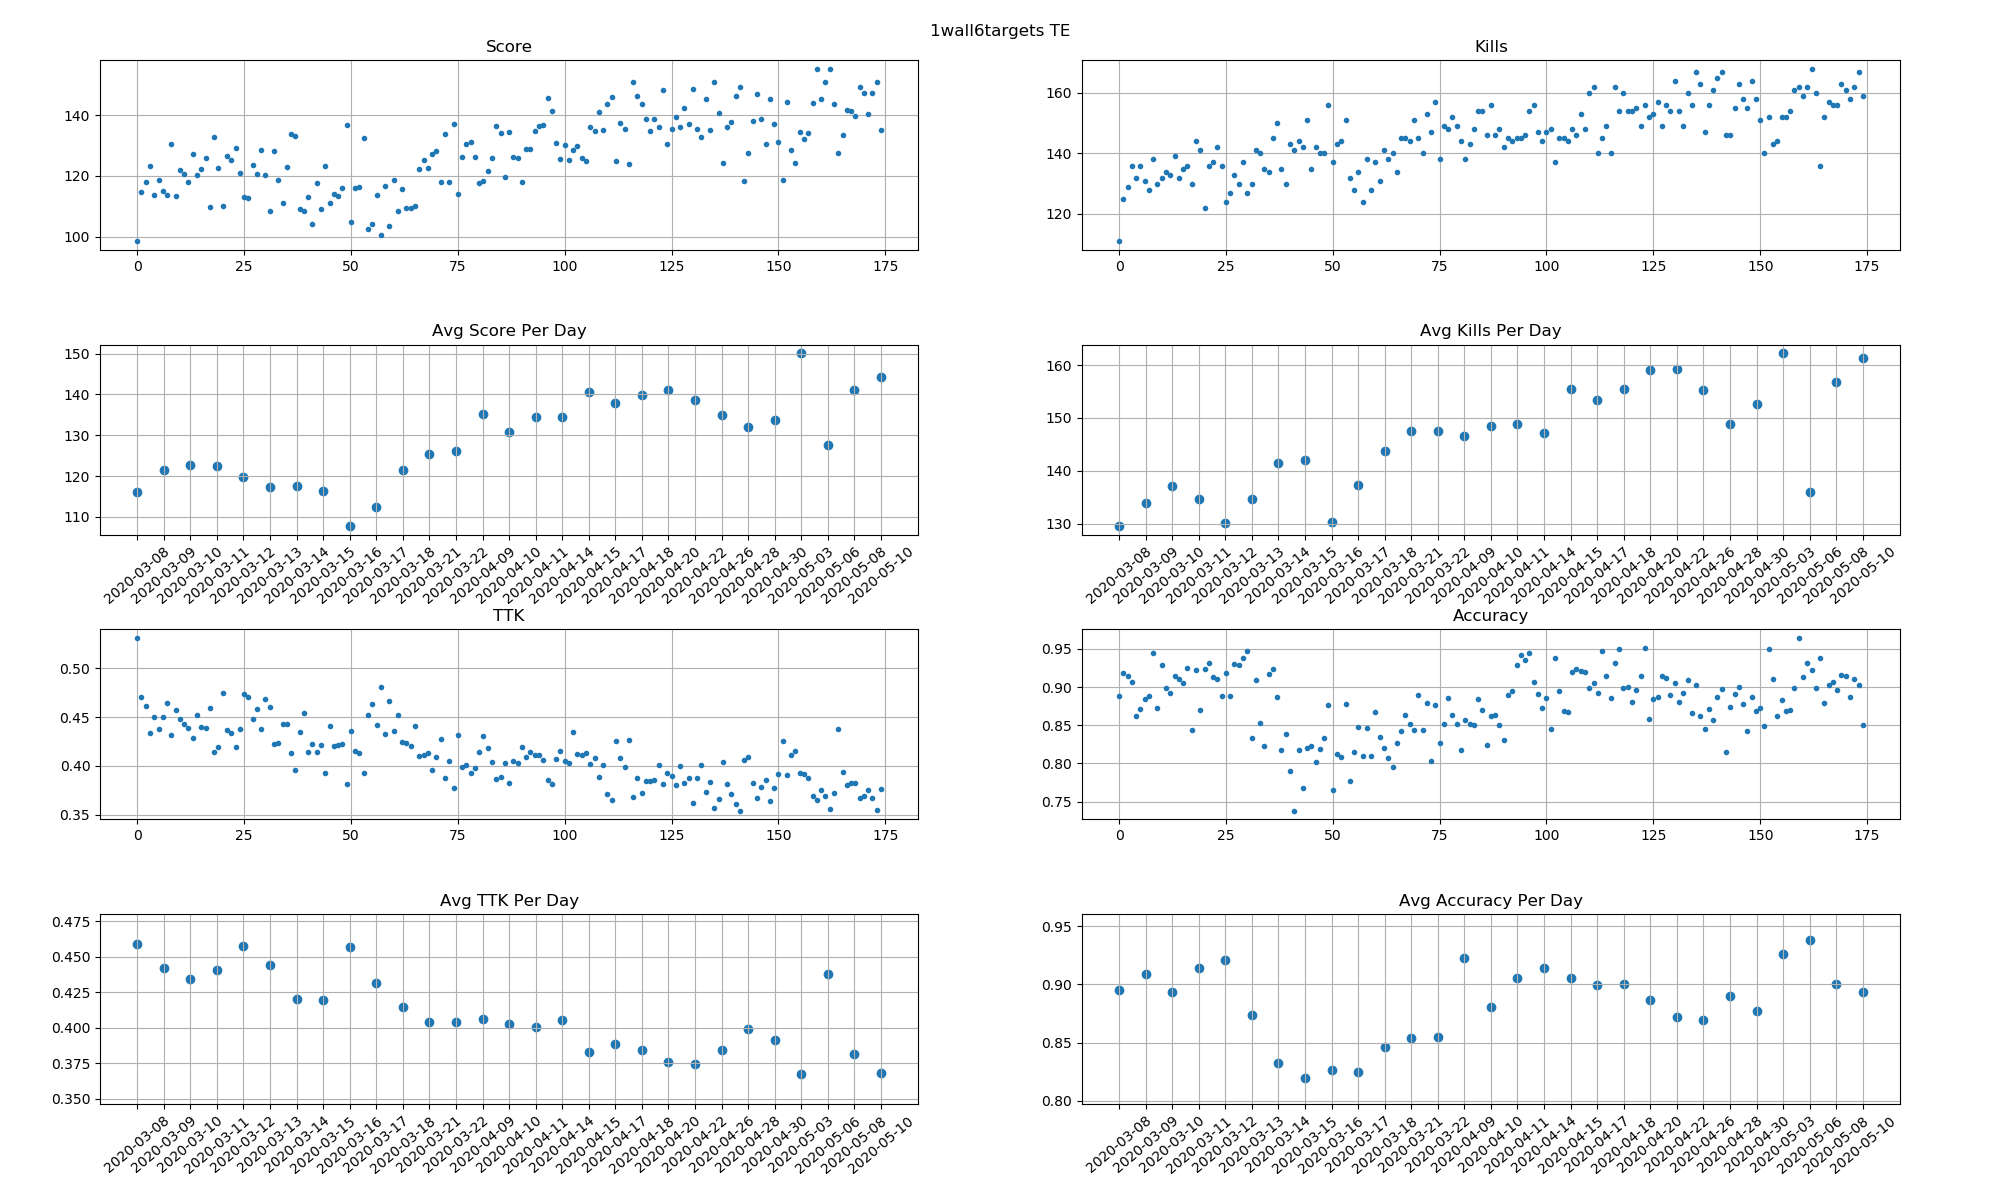
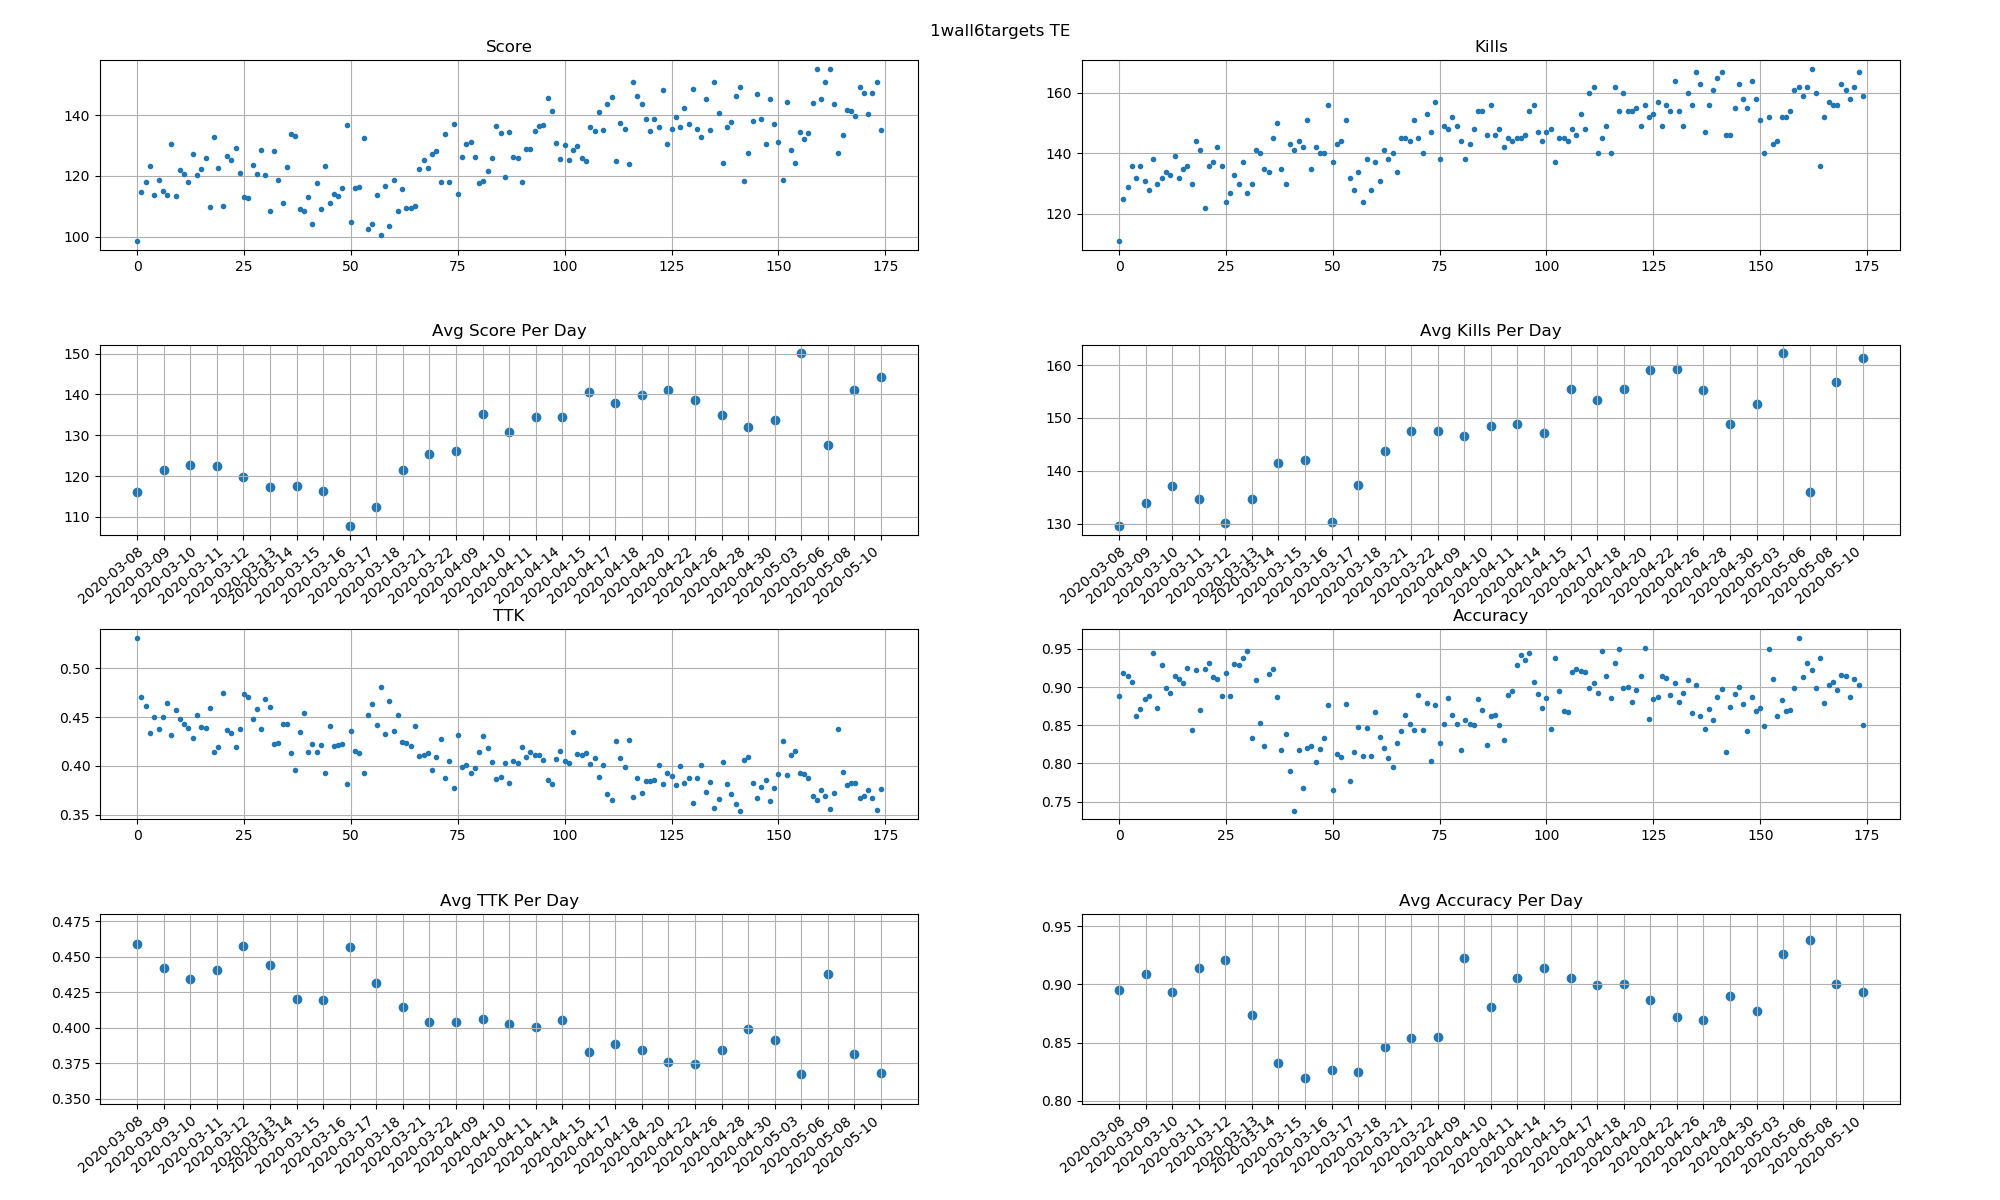
Fix date label alignment.

diff --git a/kovaakStats.py b/kovaakStats.py
@@ -168,6 +168,12 @@ def parse_stats(stats_dir, stat_files):
 #     p = numpy.poly1d(z)
 #     ax.plot(x,p(x), "r--")
 
+def _conf_axes(axes, title, rotate):
+    axes.set_title(title)
+    axes.grid(True)
+    if rotate:
+        plt.setp(axes.get_xticklabels(), rotation=40, ha="right", rotation_mode="anchor")
+
 def plot_tracking(challenge_name, fig_id, stats, img_dir):
     width, height = 1, 2
 
@@ -175,17 +181,14 @@ def plot_tracking(challenge_name, fig_id, stats, img_dir):
     fig.suptitle(challenge_name)
 
     ax = plt.subplot(height, width, 1)
-    ax.set_title("Score")
-    ax.grid(True)
+    _conf_axes(ax, "Score", False)
     x, y = zip(*enumerate(s.summary.score for s in stats))
     ax.plot(x, y, ".")
     # _trendline(ax, x, y)
 
     ax = plt.subplot(height, width, 2)
-    ax.set_title("Avg Score Per Day")
-    ax.grid(True)
+    _conf_axes(ax, "Avg Score Per Day", True)
     ax.scatter(*daily_stats(stats, lambda s: s.summary.score))
-    ax.tick_params(axis="x", rotation=45)
 
     # ax.set_title("Avg Score Per Day")
     # days, values = daily_stats2(stats, lambda s: s.summary.score)
@@ -201,49 +204,43 @@ def plot_tracking(challenge_name, fig_id, stats, img_dir):
 def plot_click_timing(challenge_name, fig_id, stats, img_dir):
     width, height = 2, 4
 
-    def _conf(ax, title, rotate):
-        ax.set_title(title)
-        ax.grid(True)
-        if rotate:
-            ax.tick_params(axis="x", rotation=40)
-
     fig = plt.figure(fig_id, figsize=(20, 12))
     fig.suptitle(challenge_name)
 
     ax = plt.subplot(height, width, 1)
-    _conf(ax, "Score", False)
+    _conf_axes(ax, "Score", False)
     x, y = zip(*enumerate(s.summary.score for s in stats))
     ax.plot(x, y, ".")
     # _trendline(ax, x, y)
 
     ax = plt.subplot(height, width, 3)
-    _conf(ax, "Avg Score Per Day", True)
+    _conf_axes(ax, "Avg Score Per Day", True)
     days, values = daily_stats(stats, lambda s: s.summary.score)
     ax.scatter(days, values)
     # _trendline(ax, range(len(days)), values)
 
     ax = plt.subplot(height, width, 2)
-    _conf(ax, "Kills", False)
+    _conf_axes(ax, "Kills", False)
     ax.plot([s.summary.kills for s in stats], ".")
 
     ax = plt.subplot(height, width, 4)
-    _conf(ax, "Avg Kills Per Day", True)
+    _conf_axes(ax, "Avg Kills Per Day", True)
     ax.scatter(*daily_stats(stats, lambda s: s.summary.kills))
 
     ax = plt.subplot(height, width, 6)
-    _conf(ax, "Accuracy", False)
+    _conf_axes(ax, "Accuracy", False)
     ax.plot([s.accuracy for s in stats], ".")
 
     ax = plt.subplot(height, width, 8)
-    _conf(ax, "Avg Accuracy Per Day", True)
+    _conf_axes(ax, "Avg Accuracy Per Day", True)
     ax.scatter(*daily_stats(stats, lambda s: s.accuracy))
 
     ax = plt.subplot(height, width, 5)
-    _conf(ax, "TTK", False)
+    _conf_axes(ax, "TTK", False)
     ax.plot([s.ttk for s in stats], ".")
 
     ax = plt.subplot(height, width, 7)
-    _conf(ax, "Avg TTK Per Day", True)
+    _conf_axes(ax, "Avg TTK Per Day", True)
     ax.scatter(*daily_stats(stats, lambda s: s.ttk))
 
     plt.subplots_adjust(top=0.95, bottom=0.08, left=0.05, right=0.95, hspace=0.5, wspace=0.2)
